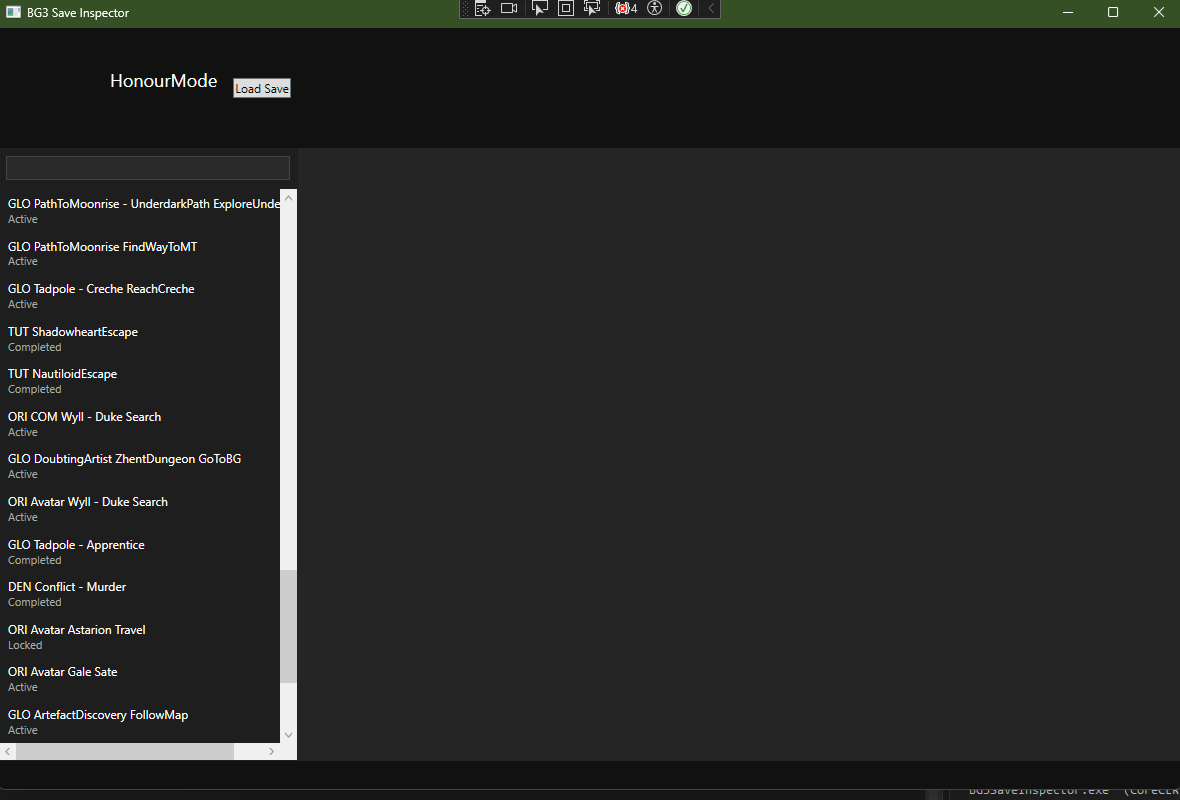
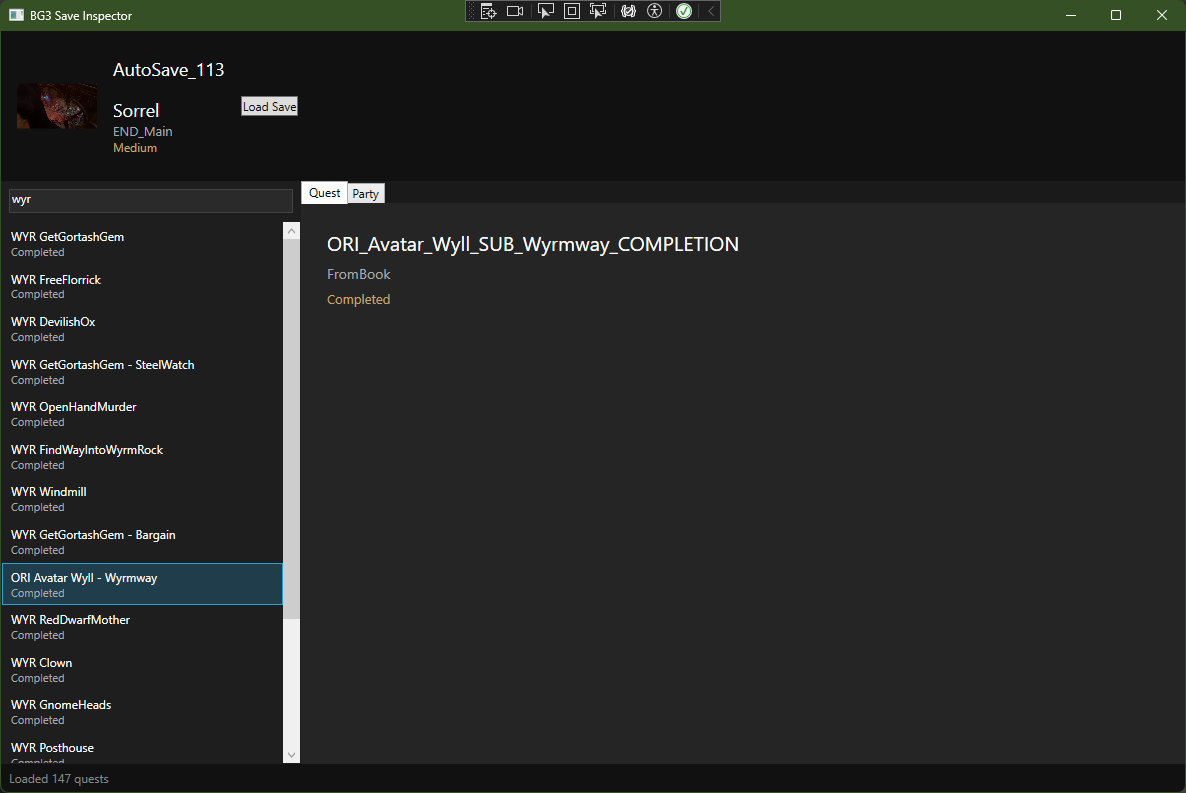
update party config, origin name display, readme

Changed region(s): [[0.0, 0.0, 1.0, 1.0]]

diff --git a/BG3SaveInspector/ViewModels/SaveFileViewModel.cs b/BG3SaveInspector/ViewModels/SaveFileViewModel.cs
@@ -146,7 +146,7 @@ namespace BG3SaveInspector.ViewModels
 
                     Party.Add(new PartyMemberViewModel
                     { 
-                        Name = originStr == "Generic" || originStr == "DarkUrge" ? LeaderName : originStr,
+                        Name = originStr == "Generic" ? "Tav" : originStr,
                         Race = race.GetString(),
                         Level = level.GetInt32(),
                         ClassString = classString

diff --git a/README.md b/README.md
@@ -1,6 +1,17 @@
 # BG3 Save Inspector
 A Windows desktop tool for inspecting Baldur's Gate 3 save files without launching the game. Browse quest states, story flags, and playthrough progress from your '.lsv' save files.
 
+![quest flag view](res/bg3saveinspector.png)
+![party view BG3](res/bg3saveinspector1.png)
+
+## Feature
+- Load any BG3 save file (.lsv)
+- Browse quest log with objective and stepID
+- Search and filter quests
+- Select a quest to view detailed state
+- View save metadata - character name, class, difficulty, thumbnail
+- Browse active party composition
+
 ## Requirements
 - Win 10/11
 - .NET 8.0
@@ -10,8 +21,6 @@ A Windows desktop tool for inspecting Baldur's Gate 3 save files without launchi
 1. Clone the repo
 2. Open 'BG3SaveInspector.sln' in Visual Studio 2022
 3. Build and run
-
-![preview of BG3 Save Inspector](res/bg3saveinspector.png)
 
 ## Acknowledgements
 - [LSLib](https://github.com/Norbyte/lslib) by [Norbyte](https://github.com/Norbyte) — 
